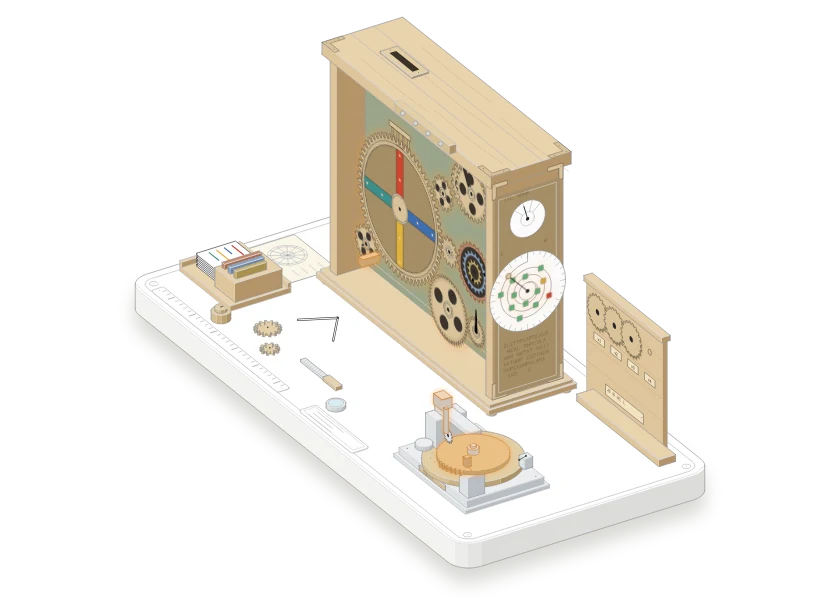
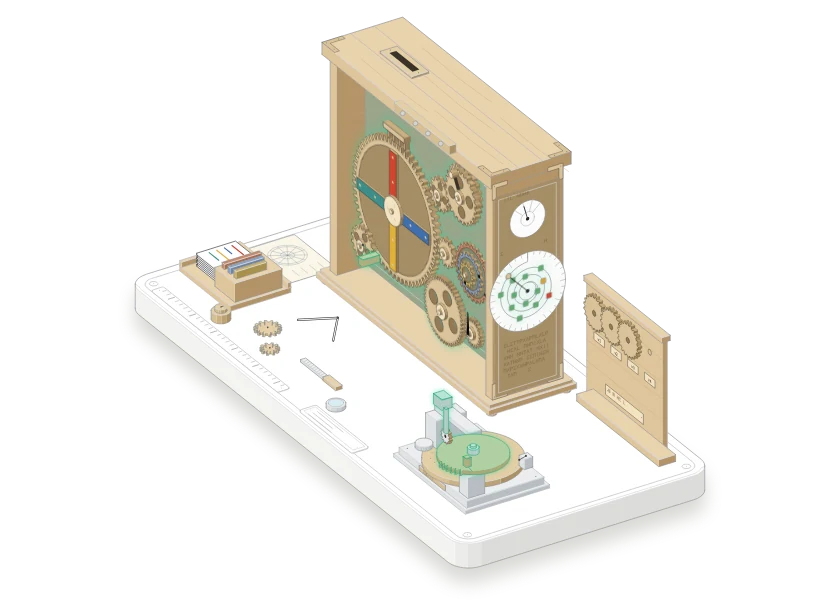
Anticythère : roues en volume (prismes extrudés, flancs de dents ombrés, parois des trous, rayons, moyeux et cheville en relief, anneaux du corpus empilés)
Claude-Session: https://claude.ai/code/session_01LkExX7823QtQq9wQQ73LZ2

Changed region(s): [[0.4024, 0.21, 0.5881, 0.6], [0.4952, 0.63, 0.619, 0.81], [0.681, 0.48, 0.7738, 0.6]]

diff --git a/figures/vrestudio-anticythere.html b/figures/vrestudio-anticythere.html
@@ -135,6 +135,11 @@ body{margin:0;background:var(--anatomy-page);color:var(--anatomy-text);font:14px
 .ak-f0{fill:#d2452f}.ak-f1{fill:#3f6fb0}.ak-f2{fill:#e0b23a}.ak-f3{fill:#3d8f8a}
 .ak-r0{fill:#c98a6a}.ak-r1{fill:#8aa3c4}.ak-r2{fill:#c9b26a}
 .ak-lamp{fill:var(--anatomy-faint);stroke:var(--anatomy-mid);stroke-width:.5}.ak-lamp.ak-on{stroke:var(--anatomy-hi)}
+.ak-sbk{fill:var(--ak-s3);stroke:var(--anatomy-hi);stroke-width:.35;stroke-linejoin:round}
+.ak-s0{fill:var(--ak-s0);stroke:var(--ak-s0);stroke-width:.25;stroke-linejoin:round}.ak-s1{fill:var(--ak-s1);stroke:var(--ak-s1);stroke-width:.25;stroke-linejoin:round}.ak-s2{fill:var(--ak-s2);stroke:var(--ak-s2);stroke-width:.25;stroke-linejoin:round}
+.ak-thru{fill:var(--pl-3)}
+.ak-web{fill:var(--ak-bronze-d);stroke:var(--anatomy-hi);stroke-width:.3}
+.ak-axle3{fill:var(--ak-bronze-l);stroke:var(--anatomy-hi);stroke-width:.3}
 .ak-root{fill:none;stroke:var(--ak-bronze-d);stroke-width:.3}
 .ak-rivet{fill:var(--ak-bronze-l);stroke:var(--ak-bronze-d);stroke-width:.2}
 .ak-hub{fill:var(--ak-bronze-l)}
@@ -160,11 +165,11 @@ body{margin:0;background:var(--anatomy-page);color:var(--anatomy-text);font:14px
 .mat-ak-r0{--anatomy-top:#c98a6a;--anatomy-face:#c98a6a;--anatomy-shade-0:#a86c4e;--anatomy-shade-1:#b4775a;--anatomy-shade-2:#bf8264;--anatomy-shade-3:#c98a6a}
 .mat-ak-r1{--anatomy-top:#8aa3c4;--anatomy-face:#8aa3c4;--anatomy-shade-0:#6c85a6;--anatomy-shade-1:#7690b0;--anatomy-shade-2:#809aba;--anatomy-shade-3:#8aa3c4}
 .mat-ak-r2{--anatomy-top:#c9b26a;--anatomy-face:#c9b26a;--anatomy-shade-0:#a8924e;--anatomy-shade-1:#b49c58;--anatomy-shade-2:#bfa862;--anatomy-shade-3:#c9b26a}
-.iso{--ak-bronze:#7a6a52;--ak-bronze-d:#4a4033;--ak-bronze-l:#a89272;--ak-hole:#1e1b17;--ak-engr:#2a241c;--ak-ink:#8a7a62;
+.iso{--ak-bronze:#7a6a52;--ak-bronze-d:#4a4033;--ak-bronze-l:#a89272;--ak-hole:#1e1b17;--ak-engr:#2a241c;--ak-ink:#8a7a62;--ak-s0:#6a5b45;--ak-s1:#56493a;--ak-s2:#41372b;--ak-s3:#2e271f;
   --wd-0:#4a3826;--wd-1:#3f3020;--wd-2:#36291b;--wd-3:#2e2317;--wd-4:#261d13;--wd-grain:#5a4630;
   --bz-0:#6a5a42;--bz-1:#5e4f3a;--bz-2:#544632;--bz-3:#4a3e2c;--bz-4:#403526;
   --st-0:#4a4d50;--st-1:#404346;--st-2:#383a3d;--st-3:#303235;--st-4:#28292b;--pp:#2a2722;--gl:#3a4a50;--pl-0:#3d4a3e;--pl-1:#344036;--pl-2:#2c372e;--pl-3:#252e27}
-[data-theme="light"]{--ak-bronze:#d9c39a;--ak-bronze-d:#a68e66;--ak-bronze-l:#f2e3c2;--ak-hole:#3a332a;--ak-engr:#6e5a3c;--ak-ink:#7a8aa0;
+[data-theme="light"]{--ak-bronze:#d9c39a;--ak-bronze-d:#a68e66;--ak-bronze-l:#f2e3c2;--ak-hole:#3a332a;--ak-engr:#6e5a3c;--ak-ink:#7a8aa0;--ak-s0:#c8ae80;--ak-s1:#b0956a;--ak-s2:#937a54;--ak-s3:#7a6444;
   --wd-0:#e9d3ae;--wd-1:#dfc59c;--wd-2:#d2b68b;--wd-3:#c4a67a;--wd-4:#b39469;--wd-grain:#c2a173;
   --bz-0:#e3cfa6;--bz-1:#d6bf92;--bz-2:#cab283;--bz-3:#bca274;--bz-4:#ab9165;
   --st-0:#eceeef;--st-1:#dfe2e4;--st-2:#d3d7da;--st-3:#c6cbcf;--st-4:#b8bec3;--pp:#fbf6e8;--gl:#d8eef2;--pl-0:#a9b29a;--pl-1:#9aa58b;--pl-2:#8c977d;--pl-3:#7e8970}
@@ -884,34 +889,54 @@ const TAU = Math.PI * 2;
 const ease = (u) => (u = Math.max(0, Math.min(1, u)), u * u * (3 - 2 * u));
 const seg = (t, a, b) => Math.max(0, Math.min(1, (t - a) / (b - a)));
 const lerp = (a, b, u) => a + (b - a) * u;
-function gearD(r, n, depth = 2.2, cut = n) {
-  const pts = [];
-  for (let i = 0; i < n; i++) {
-    const a = (i / n) * TAU, w = TAU / n, has = i < cut;
-    const ro = has ? r : r - depth, ri = r - depth;
-    pts.push([ri, a], [ri, a + w * 0.18], [ro, a + w * 0.3], [ro, a + w * 0.62], [ri, a + w * 0.74]);
-  }
-  return "M" + pts.map(([rr, a]) => (rr * Math.cos(a)).toFixed(2) + " " + (rr * Math.sin(a)).toFixed(2)).join("L") + "Z";
-}
 const circ = (r, cx = 0, cy = 0) => `M${(cx + r).toFixed(2)} ${cy}A${r} ${r} 0 1 0 ${(cx - r).toFixed(2)} ${cy}A${r} ${r} 0 1 0 ${(cx + r).toFixed(2)} ${cy}Z`;
 const gearPlan = (cx, cy, r, n, a0 = 0, cut = n, depth = 1.6) => { const out = []; for (let i = 0; i < n; i++) { const a = a0 + (i / n) * TAU, w = TAU / n, ro = i < cut ? r : r - depth, ri = r - depth; for (const [rr, f] of [[ri, 0], [ri, 0.18], [ro, 0.3], [ro, 0.62], [ri, 0.74]]) out.push([cx + rr * Math.cos(a + w * f), cy + rr * Math.sin(a + w * f)]); } return out; };
-function wheelSvg(g, o = {}) {
-  const r = g.r, dep = o.depth ?? Math.max(1.6, r * 0.07), body = gearD(r, g.n, dep, o.cut ?? g.n), f = (v) => v.toFixed(2);
-  const dot = (x, y, rr) => `M${f(x + rr)} ${f(y)}A${rr} ${rr} 0 1 0 ${f(x - rr)} ${f(y)}A${rr} ${rr} 0 1 0 ${f(x + rr)} ${f(y)}Z`;
-  // épaisseur : copie sombre décalée vers le fond, puis la face ; cercle de pied de dent gravé
-  let s = `<path class="ak-back" d="${body}" transform="translate(1.1 0.9)"/><path class="ak-gear${o.lit ? " ak-lit" : ""}" d="${body}"/><path class="ak-root" d="${circ(r - dep - 0.5)}"/>`;
+const OFF = [1.6006,-1.0897];
+function gearPts(r, n, depth, cut, a0, cx, cy) { const pts = []; for (let i = 0; i < n; i++) { const w = TAU / n, a = a0 + i * w, ro = i < cut ? r : r - depth, ri = r - depth; for (const [rr, q] of [[ri, 0], [ri, 0.18], [ro, 0.3], [ro, 0.62], [ri, 0.74]]) pts.push([cx + rr * Math.cos(a + w * q), cy + rr * Math.sin(a + w * q)]); } return pts; }
+function circPts(r, cx, cy, steps = 40) { return Array.from({ length: steps }, (_, i) => { const a = (i / steps) * TAU; return [cx + r * Math.cos(a), cy + r * Math.sin(a)]; }); }
+function prism(pts, T, o = {}) {
+  const f = (v) => v.toFixed(2), ox = OFF[0] * T, oy = OFF[1] * T, L = [-0.45, -0.89];
+  const poly = (ps, dx = 0, dy = 0) => "M" + ps.map((p) => f(p[0] + dx) + " " + f(p[1] + dy)).join("L") + "Z";
+  let area = 0; for (let i = 0; i < pts.length; i++) { const a = pts[i], b = pts[(i + 1) % pts.length]; area += a[0] * b[1] - b[0] * a[1]; }
+  const sg = area > 0 ? 1 : -1, bk = ["", "", ""];
+  for (let i = 0; i < pts.length; i++) {
+    const a = pts[i], b = pts[(i + 1) % pts.length], ex = b[0] - a[0], ey = b[1] - a[1], l = Math.hypot(ex, ey) || 1, nx = sg * ey / l, ny = -sg * ex / l;
+    if (nx * ox + ny * oy <= 0) continue;
+    const d = nx * L[0] + ny * L[1];
+    bk[d > 0.3 ? 0 : d > -0.4 ? 1 : 2] += "M" + f(a[0]) + " " + f(a[1]) + "L" + f(b[0]) + " " + f(b[1]) + "L" + f(b[0] + ox) + " " + f(b[1] + oy) + "L" + f(a[0] + ox) + " " + f(a[1] + oy) + "Z";
+  }
+  let out = '<path class="ak-sbk" d="' + poly(pts, ox, oy) + '"/>' + bk.map((d, i) => (d ? '<path class="ak-s' + i + '" d="' + d + '"/>' : "")).join(""), holes = "";
+  for (const [hx, hy, hr] of o.holes || []) {
+    const th = circPts(hr, hx + ox, hy + oy, 32).map(([x, y]) => { const dx = x - hx, dy = y - hy, dd = Math.hypot(dx, dy); return dd > hr ? [hx + dx / dd * hr, hy + dy / dd * hr] : [x, y]; });
+    out += '<path class="ak-s2" d="' + poly(circPts(hr, hx, hy, 32)) + '"/><path class="ak-thru" d="' + poly(th) + '"/>';
+    holes += poly(circPts(hr, hx, hy, 32));
+  }
+  return out + '<path class="' + (o.cls || "ak-gear") + '" d="' + poly(pts) + holes + '" fill-rule="evenodd"/>';
+}
+const lift = (pts, h) => pts.map((p) => [p[0] - OFF[0] * h, p[1] - OFF[1] * h]);
+const raised = (pts, h, T, cls) => prism(lift(pts, h + T), T, { cls });
+function wheel3d(g, ang, o = {}) {
+  const r = g.r, dep = o.depth ?? Math.max(1.6, r * 0.07), T = o.T ?? (r > 12 ? 3 : 2.2), h = o.h ?? 0, f = (v) => v.toFixed(2);
+  const c0 = lift([[g.u, -g.z]], h)[0], cx = c0[0], cy = c0[1];
+  const rot = (x, y) => [cx + x * Math.cos(ang) - y * Math.sin(ang), cy + x * Math.sin(ang) + y * Math.cos(ang)];
+  const top = (p, k) => lift([p], k)[0];
+  const holes = !o.spokes && r > 9 ? [0, 1, 2, 3].map((i) => { const a = (i / 4) * TAU + 0.4, p = rot(Math.cos(a) * r * 0.55, Math.sin(a) * r * 0.55); return [...top(p, T), r * 0.22]; }) : [];
+  let s = prism(lift(gearPts(r, g.n, dep, o.cut ?? g.n, ang, cx, cy), T), T, { holes, cls: "ak-gear" + (o.lit ? " ak-lit" : "") });
+  const [fx, fy] = top([cx, cy], T);
+  s += '<path class="ak-root" d="' + circ(r - dep - 0.5, fx, fy) + '"/>';
   if (o.spokes) {
-    s += `<path class="ak-back" d="${circ(r - 4.2)}"/>`;
-    o.spokes.forEach((cls, i) => { const a = (i / o.spokes.length) * TAU, c = Math.cos(a), sn = Math.sin(a), w = 3.2; s += `<path class="ak-gear ${cls}" d="M${f(-sn * w)} ${f(c * w)}L${f((r - 4) * c - sn * w)} ${f((r - 4) * sn + c * w)}L${f((r - 4) * c + sn * w)} ${f((r - 4) * sn - c * w)}L${f(sn * w)} ${f(-c * w)}Z"/><path class="ak-rivet" d="${dot((r - 9) * c, (r - 9) * sn, 0.75) + dot(r * 0.42 * c, r * 0.42 * sn, 0.75)}"/>`; });
-    s += `<path class="ak-gear" d="${circ(r - 4.2) + circ(r - 6.4)}" fill-rule="evenodd"/><path class="ak-root" d="${circ(r - 5.3)}"/>`;
-  } else if (r > 9) {
-    s += `<path class="ak-hole" d="${[0, 1, 2, 3].map((i) => { const a = (i / 4) * TAU + 0.4; return circ(r * 0.22, Math.cos(a) * r * 0.55, Math.sin(a) * r * 0.55); }).join("")}"/><path class="ak-root" d="${circ(r * 0.83)}"/>`;
-  } else s += `<path class="ak-root" d="${circ(r * 0.6)}"/>`;
-  // moyeu tourné : collet, trois vis, axe
+    s += '<path class="ak-web" d="' + circ(r - 5.6, fx, fy) + '"/>';
+    o.spokes.forEach((cls, i) => {
+      const a = ang + (i / o.spokes.length) * TAU, c = Math.cos(a), sn = Math.sin(a), w = 3.2, R = r - 5.8;
+      s += raised([[-sn * w, c * w], [R * c - sn * w, R * sn + c * w], [R * c + sn * w, R * sn - c * w], [sn * w, -c * w]].map(([x, y]) => [cx + x, cy + y]), T, 1.2, "ak-gear " + cls);
+      for (const k of [0.42, 0.78]) { const p = top([cx + r * k * c, cy + r * k * sn], T + 1.2); s += '<path class="ak-rivet" d="' + circ(0.75, p[0], p[1]) + '"/>'; }
+    });
+  }
   const hub = Math.max(2.4, r * 0.18);
-  s += `<path class="ak-gear ak-hub" d="${circ(hub + 0.9)}"/><path class="ak-gear" d="${circ(hub)}"/>`;
-  if (r > 9) s += `<path class="ak-rivet" d="${[0, 1, 2].map((i) => { const a = (i / 3) * TAU + 0.5; return dot(Math.cos(a) * hub * 0.62, Math.sin(a) * hub * 0.62, 0.45); }).join("")}"/>`;
-  s += `<path class="ak-axle" d="${circ(1.1)}"/>`;
+  s += raised(circPts(hub + 0.9, cx, cy, 28), T, 1.4, "ak-gear ak-hub");
+  const [hx, hy] = top([cx, cy], T + 1.4);
+  if (r > 9) s += [0, 1, 2].map((i) => { const a = (i / 3) * TAU + 0.5 + ang; return '<path class="ak-rivet" d="' + circ(0.45, hx + Math.cos(a) * hub * 0.62, hy + Math.sin(a) * hub * 0.62) + '"/>'; }).join("");
+  s += raised(circPts(1.3, cx, cy, 14), T + 1.4, 1, "ak-axle3");
   return s;
 }
 const at = (p) => iso(p, P);
@@ -967,19 +992,32 @@ function stateAt(s) {
 }
 
 function draw(o, s) {
-  const g = GEARS, rot = (gg, a, inner) => '<g transform="translate(' + gg.u + ' ' + (-gg.z) + ') rotate(' + (a * 180 / Math.PI).toFixed(2) + ')">' + inner + '</g>';
+  const g = GEARS;
   let fr = "";
-  fr += rot(g.b1, o.b1, wheelSvg(g.b1, { spokes: FIELDS }));
-  fr += rot(g.crank, o.crank, wheelSvg(g.crank));
-  fr += rot(g.idle, o.idle, wheelSvg(g.idle));
-  fr += rot(g.p2, o.p2, wheelSvg(g.p2));
-  fr += rot(g.pin, o.pin, wheelSvg(g.pin) + '<path class="ak-pin" d="' + circ(1.8, 10, 0) + '"/>');
-  fr += rot(g.slot, o.slot, wheelSvg(g.slot, { lit: o.accord }) + '<path class="ak-slot" d="M4 -1.6H13.5V1.6H4Z"/>');
-  fr += '<g transform="translate(' + g.corpus.u + ' ' + (-g.corpus.z) + ')">' + ['ak-r0', 'ak-r1', 'ak-r2'].map((cls, i) => { const r = 16 - i * 4.6; return '<g transform="rotate(' + (o.corpus[i] * 180 / Math.PI).toFixed(1) + ')"><path class="ak-gear ' + cls + '" d="' + gearD(r, 26 - i * 7, 1.4) + '"/><path class="ak-hole" d="' + circ(r - 2.6) + '"/><path class="ak-mark" d="M' + (r - 2.4) + ' -0.8H' + (r - 0.6) + 'V0.8H' + (r - 2.4) + 'Z"/></g>'; }).join("") + '<path class="ak-axle" d="' + circ(1.2) + '"/></g>';
-  fr += rot(g.d46, o.d46, wheelSvg(g.d46));
-  fr += rot(g.o20, o.o20, wheelSvg(g.o20, { lit: s > 36 }) + '<path class="ak-hand" d="M-1 0L0 -13L1 0Z"/>');
+  fr += wheel3d(g.b1, o.b1, { spokes: FIELDS });
+  fr += wheel3d(g.crank, o.crank);
+  fr += wheel3d(g.idle, o.idle);
+  fr += wheel3d(g.p2, o.p2);
+  // roue du modèle contre la platine, roue des règles levée devant elle ; la cheville traverse la coulisse
+  fr += wheel3d(g.pin, o.pin);
+  fr += wheel3d(g.slot, o.slot, { lit: o.accord, h: 3.4 });
+  { const T = 3, h = 3.4 + T, c = lift([[g.slot.u, -g.slot.z]], h)[0], rr = (x, y) => [c[0] + x * Math.cos(o.slot) - y * Math.sin(o.slot), c[1] + x * Math.sin(o.slot) + y * Math.cos(o.slot)];
+    fr += '<path class="ak-slot" d="M' + [rr(4, -1.6), rr(13.5, -1.6), rr(13.5, 1.6), rr(4, 1.6)].map((p) => p[0].toFixed(2) + " " + p[1].toFixed(2)).join("L") + 'Z"/>';
+    const pc = [g.pin.u + 10 * Math.cos(o.pin), -g.pin.z + 10 * Math.sin(o.pin)];
+    fr += raised(circPts(1.8, pc[0], pc[1], 16), 3, 3.6, "ak-gear ak-hub"); }
+  // trois anneaux coaxiaux du corpus, empilés
+  ['ak-r0', 'ak-r1', 'ak-r2'].forEach((cls, i) => { const r = 16 - i * 4.6, T = 1.6, h = i * T, a = o.corpus[i], c = lift([[g.corpus.u, -g.corpus.z]], h + T)[0];
+    fr += prism(lift(gearPts(r, 26 - i * 7, 1.4, 99, a, g.corpus.u, -g.corpus.z), h + T), T, { cls: "ak-gear " + cls, holes: [[c[0], c[1], r - 2.6]] });
+    const m = [[r - 2.4, -0.8], [r - 0.6, -0.8], [r - 0.6, 0.8], [r - 2.4, 0.8]].map(([x, y]) => [c[0] + x * Math.cos(a) - y * Math.sin(a), c[1] + x * Math.sin(a) + y * Math.cos(a)]);
+    fr += '<path class="ak-mark" d="M' + m.map((p) => p[0].toFixed(2) + " " + p[1].toFixed(2)).join("L") + 'Z"/>'; });
+  fr += raised(circPts(1.4, g.corpus.u, -g.corpus.z, 14), 4.8, 1.2, "ak-axle3");
+  fr += wheel3d(g.d46, o.d46);
+  fr += wheel3d(g.o20, o.o20, { lit: s > 36 });
+  { const c = lift([[g.o20.u, -g.o20.z]], 2.2 + 2.6)[0], a = o.o20, rr = (x, y) => [c[0] + x * Math.cos(a) - y * Math.sin(a), c[1] + x * Math.sin(a) + y * Math.cos(a)];
+    fr += '<path class="ak-hand" d="M' + [rr(-1, 0), rr(0, -13), rr(1, 0)].map((p) => p[0].toFixed(2) + " " + p[1].toFixed(2)).join("L") + 'Z"/>'; }
   // peigne de lecture au-dessus de la grande roue, aiguille d'accord
-  fr += '<path class="ak-gear" d="M' + (g.b1.u - 10) + ' ' + (-(g.b1.z + 44)) + 'h20v-3h-20Z"/>' + [0, 1, 2, 3].map((i) => '<path class="ak-gear" d="M' + (g.b1.u - 7.5 + i * 5) + ' ' + (-(g.b1.z + 44)) + 'v5h1.4v-5Z"/>').join("");
+  { const u = g.b1.u, v = -(g.b1.z + 44), rect = (u0, v0, w, hh) => [[u0, v0], [u0 + w, v0], [u0 + w, v0 + hh], [u0, v0 + hh]];
+    fr += [0, 1, 2, 3].map((i) => raised(rect(u - 7.5 + i * 5, v, 1.4, 5), 0, 2.4, "ak-gear")).join("") + raised(rect(u - 10, v - 3, 20, 3), 0, 3.6, "ak-gear"); }
   fr += '<g transform="translate(' + (g.slot.u + 14) + ' ' + (-(g.slot.z + 14)) + ')"><path class="ak-face" d="' + circ(3.4) + '"/><path class="' + (o.accord ? 'ak-ok' : 'ak-off') + '" d="' + circ(2) + '"/></g>';
   parts.gears.innerHTML = fr;
   // voyants des champs
@@ -1009,7 +1047,7 @@ function draw(o, s) {
   dv += box(cx - 7, cx + 1, DIV.y - 3, DIV.y + 3, 24.4, 6, { tone: "mid", bevel: 0.6, cls: "mat-steel" });
   // fraise : disque denté vertical qui tourne pendant la coupe, sur son arbre
   const fa = s * 14 * (o.cutter > 0 ? 1 : 0), fz = DIV.z - 11.8;
-  dv += '<g transform="' + front(DIV.y + 0.6) + '"><g transform="translate(' + (cx + 3).toFixed(2) + ' ' + (-fz).toFixed(2) + ') rotate(' + (fa * 57.3 % 360).toFixed(1) + ')"><path class="ak-back" d="' + gearD(4.2, 12, 0.9) + '" transform="translate(0.5 0.4)"/><path class="ak-steel' + (o.cutter > 0.5 ? ' ak-lit' : '') + '" d="' + gearD(4.2, 12, 0.9) + '"/><path class="ak-axle" d="' + circ(0.9) + '"/></g></g>';
+  dv += '<g transform="' + front(DIV.y + 0.6) + '"><g transform="translate(' + (cx + 3).toFixed(2) + ' ' + (-fz).toFixed(2) + ') rotate(' + (fa * 57.3 % 360).toFixed(1) + ')">' + prism(lift(gearPts(4.2, 12, 0.9, 12, 0, 0, 0), 1.6), 1.6, { cls: "ak-steel" + (o.cutter > 0.5 ? " ak-lit" : "") }) + '<path class="ak-axle" d="' + circ(0.9, -OFF[0] * 1.6, -OFF[1] * 1.6) + '"/></g></g>';
   dv += box(cx - 0.8, cx + 1.2, DIV.y - 0.8, DIV.y + 0.8, fz, 24.4 - fz, { tone: "mid", bevel: 0.1, cls: "mat-steel" });
   const ha = (o.cut / 46) * TAU * 4, hx2 = DIV.x + 26 + 6 * Math.cos(ha), hy2 = DIV.y + 17 + 6 * Math.sin(ha);
   dv += '<path class="iso-line" data-tone="hi" d="M' + at([DIV.x + 26, DIV.y + 17, 18.5]).join(" ") + 'L' + at([hx2, hy2, 18.5]).join(" ") + '"/>' + box(hx2 - 1.5, hx2 + 1.5, hy2 - 1.5, hy2 + 1.5, 18.5, 5, { tone: "hi", bevel: 0.6, cls: "mat-wood" });
@@ -1017,10 +1055,10 @@ function draw(o, s) {
   // la roue neuve voyage du plateau vers le boîtier ; l'ancienne voyage du boîtier au tableau
   let tr = "";
   if (rise > 0 && rise < 1) { const x = lerp(DIV.x, -35, rise), y = lerp(DIV.y, -21, rise), z = lerp(DIV.z - 13, CASE.h + 9, rise) + 70 * Math.sin(rise * Math.PI * 0.85); tr += solidSvg(extrude(gearPlan(x, y, DIV.r, 46, s * 2), z, 2.4, P, { bevel: 0.2 }), { tone: "mid", crease: "none", className: "mat-bronze" }) + solidSvg(cylinder(x, y, 3, z + 2.4, 1.2, P, 16), { tone: "mid", className: "mat-steel" }); }
-  if (o.old > 0 && o.old < 1) { const x = lerp(CASE.x1 - 20, BOARD.x0 + 12 + 3 * 16, o.old), y = lerp(-10, BOARD.y + 3, o.old), z = lerp(30, 58, o.old) + 20 * Math.sin(o.old * Math.PI); tr += '<g transform="' + front(y) + '"><path class="ak-gear" d="' + gearD(10, 20, 1.2) + '" transform="translate(' + x.toFixed(1) + ' ' + (-z).toFixed(1) + ')"/></g>'; }
+  if (o.old > 0 && o.old < 1) { const x = lerp(CASE.x1 - 20, BOARD.x0 + 12 + 3 * 16, o.old), y = lerp(-10, BOARD.y + 3, o.old), z = lerp(30, 58, o.old) + 20 * Math.sin(o.old * Math.PI); tr += '<g transform="' + front(y) + '">' + prism(gearPts(10, 20, 1.2, 20, o.old * 3, x, -z), 2) + '</g>'; }
   parts.travel.innerHTML = tr;
   // tableau des versions : anciennes roues accrochées ; la dernière arrive à la publication
-  let bd = ""; for (let i = 0; i < 4; i++) { if (i === 3 && o.old < 1) continue; const u = BOARD.x0 + 12 + i * 16; bd += '<path class="ak-back" d="' + gearD(10, 20, 1.2) + '" transform="translate(' + (u + 0.8) + ' -57.2)"/><path class="ak-gear' + (i === 3 ? ' ak-lit' : '') + '" d="' + gearD(10, 20, 1.2) + '" transform="translate(' + u + ' -58)"/><path class="ak-axle" d="' + circ(1.6, u, -58) + '"/>'; }
+  let bd = ""; for (let i = 0; i < 4; i++) { if (i === 3 && o.old < 1) continue; const u = BOARD.x0 + 12 + i * 16; bd += prism(lift(gearPts(10, 20, 1.2, 20, i * 0.7, u, -58), 2), 2, { cls: "ak-gear" + (i === 3 ? " ak-lit" : ""), holes: [[u - OFF[0] * 2, -58 - OFF[1] * 2, 1.6]] }); }
   parts.board.innerHTML = '<g transform="' + front(BOARD.y + 1) + '">' + bd + '</g>';
 }
 function reading(s) { const i = stationAt(s); const fixed = (s > T.fix[0] + 1.2 ? 1 : 0) + (s > T.fix[0] + 4.4 ? 1 : 0); const ok = s < T.rerun[0] ? (s < T.infer[0] ? 0 : 10 + fixed) : 12; return (i + 1) + " · " + STATIONS[i] + (s >= T.infer[0] ? " · " + ok + "/12" : ""); }
